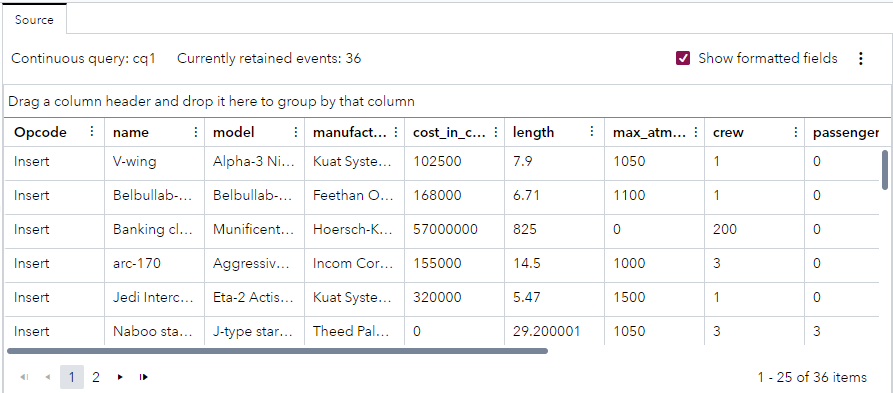
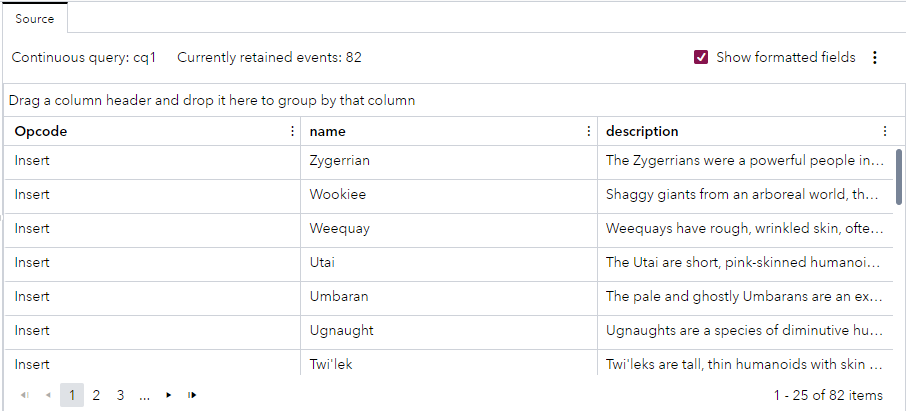
Updating broken Python Connector Example

diff --git a/Basic/python_connector/README.md b/Basic/python_connector/README.md
@@ -15,9 +15,9 @@ Data is obtained by calling a JSON API. No input files are required for this exa
 
 ## Workflow
 
-The Python code in the connector makes a call to https://swapi.dev/api/starships/?page=1 to get the first 10 starships, yielding 10 events. The `next` field in the received data provides information about the URL that the connector needs to call to get more events. After five seconds the connector makes a call to https://swapi.dev/api/starships/?page=2. This continues until the connector reaches https://swapi.dev/api/starships/?page=4, which contains the last results. The connector stops at page 4 because the `next` field does not contain another link. 
+The Python code in the connector reads information about Star Wars species. The connector makes a call to https://starwars-databank-server.vercel.app/api/v1/species/?page=1 to get the first 10 species, yielding 10 events. The `next` field in the received data provides information about the URL that the connector needs to call to get more events. After three seconds the connector makes a call to https://starwars-databank-server.vercel.app/api/v1/species/?page=2. This continues until the connector reaches https://starwars-databank-server.vercel.app/api/v1/species/?page=9, which contains the last results. The connector stops at page 9 because the `next` field does not contain another link. 
 
-The `interval` property of the connector is set to `5` so that the connector waits for five seconds between API calls. This means that the server will not be overloaded and data is streamed in rather than the entire data set being published at once. Reading data in this way is common when an API is used to fetch a large data set. In a real-life scenario, you might use a business API that also requires authentication.
+The `interval` property of the connector is set to `3` so that the connector waits for three seconds between API calls. This means that the server will not be overloaded and data is streamed in rather than the entire data set being published at once. Reading data in this way is common when an API is used to fetch a large data set. In a real-life scenario, you might use a business API that also requires authentication.
 
 The following table explains the Python code in the connector. To view the Python code in context, see the [model.xml](model.xml) file.
 
@@ -44,8 +44,8 @@ import urllib.request
 
 
 ```
-STARSHIPS_URL = 'https://swapi.dev/api/starships/'  # Star Wars Starships
-next_page = f"{STARSHIPS_URL}?page=1"
+STARWARS_SPECIES_URL = 'https://starwars-databank-server.vercel.app/api/v1/species'  # Star Wars Species
+next_page = f"{STARWARS_SPECIES_URL}?page=1"
 ```
 
 
@@ -71,20 +71,15 @@ def publish():
 </td>
 </tr>
 <tr>
-<td> Creates a list of starship events by using data from specified fields, such as name and model.</td>
+<td> Creates a list of species events by using data from specified fields (name and description).</td>
 <td>
 
 
 ```
     events = []
-    # loop through starship results
-    for result in response['results']:
-        keep_keys = [
-            'name', 'model', 'manufacturer', 'cost_in_credits',
-            'length', 'max_atmosphering_speed', 'crew', 'passengers',
-            'cargo_capacity', 'consumables','hyperdrive_rating', 'MGLT',
-            'starship_class'
-            ]
+    # loop through species results
+    for result in response['data']:
+        keep_keys = ['name', 'description']
         event = dict((k, result[k]) for k in keep_keys if k in result)
         events.append(event)
 ```
@@ -99,13 +94,14 @@ def publish():
 
 ```
     done = False
-        next_page = response['next']
-        
-        if next_page is None:
-            done = True
-            esp.logMessage(logcontext="my_connector",
-                            message='Connector finished',
-                            level="info")
+    
+    if response['info']['next'] is None:
+        done = True
+        esp.logMessage(logcontext="my_connector",
+                        message='Connector finished',
+                        level="info")
+    elif type(response['info']['next']) == str:
+        next_page = 'https://starwars-databank-server.vercel.app' + response['info']['next']
 ```
 
 
